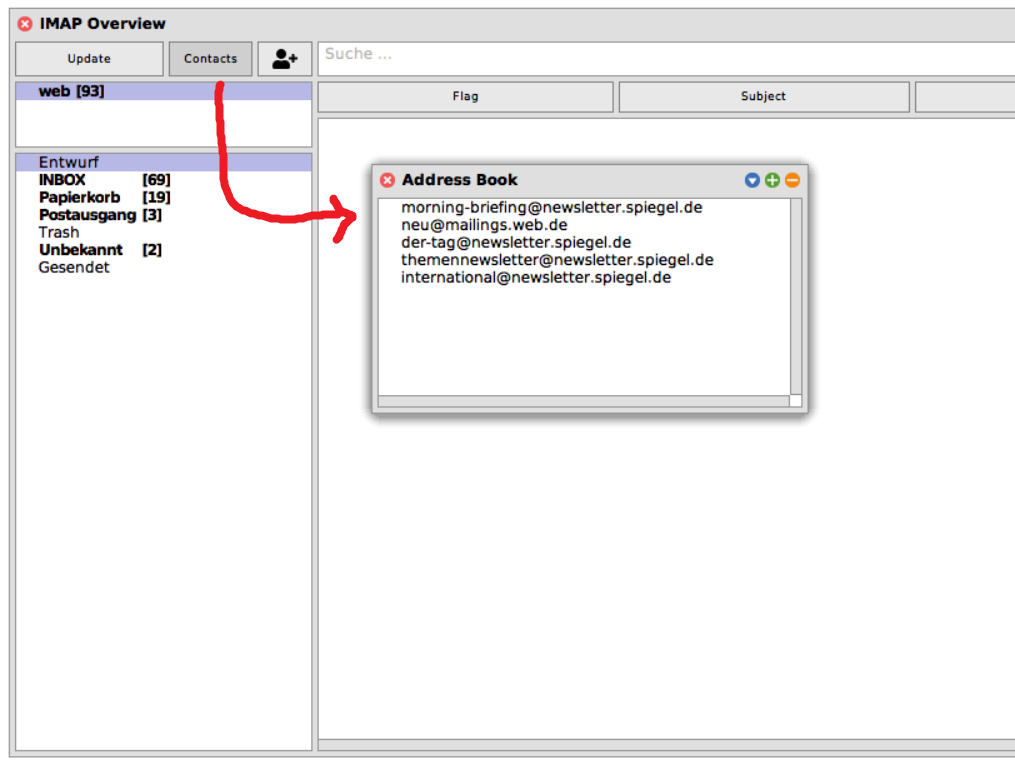
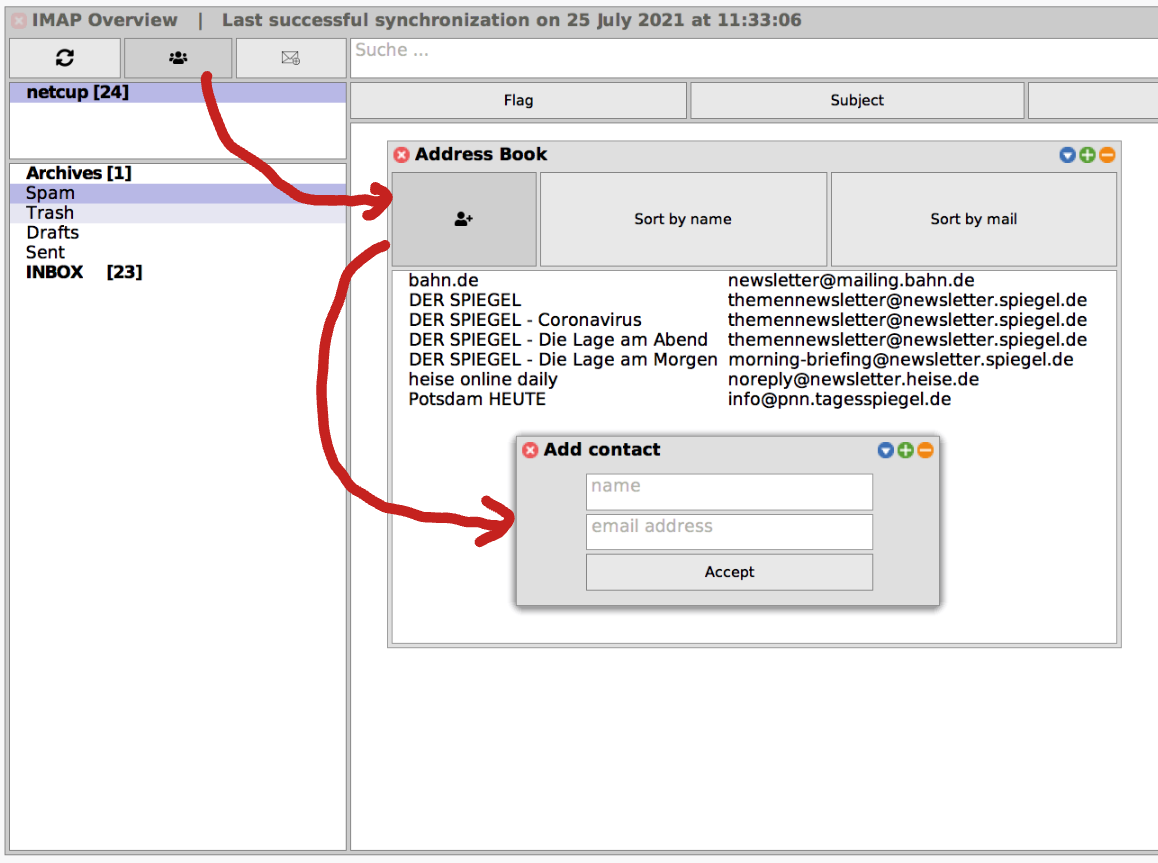
Update README to reflect changes in this iteration (#419)
main changes: updated screenshots and added explanation for new offline mode and address book features

Changed region(s): [[0.0, 0.0, 1.0, 0.9948]]

diff --git a/README.md b/README.md
@@ -1,6 +1,6 @@
 # IMAPClient [![Coverage Status](https://coveralls.io/repos/github/hpi-swa-teaching/IMAPClient/badge.svg?branch=develop)](https://coveralls.io/github/hpi-swa-teaching/IMAPClient?branch=develop)
  
-Welcome to our IMAP Client project. We are a team of 4th semester IT-Systems Engineering students and are happy to take over this project for the sixth iteration.
+Welcome to our IMAP Client project. We are a team of 4th semester IT-Systems Engineering students and are happy to take over this project for the seventh iteration.
 This project is part of a lecture in Software Engineering techniques and will be contributing to our final grade, so we are giving it our best ;)
 As this is a student project, it will mostly be worked on during the summer terms. Therefore our time with this project is limited to the end of july.
 
@@ -25,51 +25,54 @@ Metacello new
 You can open the tool with the command `ICFolderDialog new` or using a Menu Entry.
 
  ## Configuration
- You can customize the number of mails, which are fetched on the initial update process, and the number of mails which are loaded if you press the `Load older Mails` Button. Default are 100 and 10. Change `ICFolder>>numbersOfHeadersToFetch{AtLoaderOlderMail | AtTheBeginning}`
+ You can customize the number of mails, which are fetched on the initial update process, and the number of mails which are loaded if you press the `Load older Mails` Button. Default are 100 and 10. Change `ICFolder>>numbersOfHeadersToFetch{AtLoadOlderMail | AtTheBeginning}`
  This will not regard the e-mails that are already persisted on your disk, so if you have some e-mails in a Maildir directory, all of them will be read no matter what you defined here.
  
  ## Features
- - Manage different accounts
+ - _Manage different accounts_
   ![](screenshots/addAccount.png)
   You can add an account by clicking the `+` button. You will then be prompted to enter the account information needed to establish a connection with the server.
   
- - Fetch new mails from the server
+ - _Fetch new mails from the server_
   ![](screenshots/updating.png)
-  Mails are automatically fetched on login. If you wish to update and resynchronize with the server, click the update button.
+  Mails are automatically fetched on the first login. If you wish to update and resynchronize with the server afterwards, click the update button. The title bar of the tool will show you the time of the last successful synchronization to help you decide if you want to update.
   
- - Delete & move mails
+ - _Delete & move mails_
  ![](screenshots/move.png)
  A right click on any mail will show you your options. Deleting a mail automatically moves it to the trash folder. If you want to revert a deletion, you can simply navigate to the trash folder and move the email back to another folder.
  When you want to permanently delete emails, right click on the trash folder and choose expunge. This will dump your trash folder permanently.
  
- - Flag and read emails
+ - _Flag and read emails_
   A right click on any mail will show you your options. You can flag an email for later use or mark it as seen if you do not want to be disturbed by it beeing highlighted anymore. Also you can mark already seen mails as unseen again.
   ![](screenshots/flag.png)
   ![](screenshots/unflag.png)
     
- - See unseen mails immediately. 
+ - _See unseen mails immediately._ 
  All unseen mails will be highlighted and the number of unseen mails per folder can be seen next to the folder name.
  
- - Search Mails
+ - _Search Mails_
   ![](screenshots/search.png)
-  You can enter a search string into the search bar at the top. Right next to the search bar you can see, how many search results you got for the current search.
+  You can enter a search string into the search bar at the top. Right next to the search bar you can see how many search results you got for the current search.
  
- - Parse different encodings
+ - _Parse different encodings_
  
- - Reflect server changes back to Client. 
+ - _Reflect server changes back to Client._
  If you're accessing your mails for a different device, and deleting/moving them, just press the update button in the Client, and every change should be correctly updated.
  
- - Sort mails by different categories. 
-   ![](screenshots/sort.png)
- By default all sortings are ascending. Double clicking the button will switch do descending order.
+ - _Offline mode_
+  All above features are also available while you are offline. Specifically, mails can be read, flagged and moved to other folders after they were downloaded on the first login. As soon as you are online again, you may resynchronize your account with the server by clicking on the update button and filling in your password.
  
- - Addressbook. 
+ - _Sort mails by different categories._ 
+   ![](screenshots/sort.png)
+ By default all sortings are ascending. Double clicking the button will switch to descending order.
+ 
+ - _Addressbook._ 
    ![](screenshots/addressbook.png)
- You can open the addressbook by clicking the button with the person icon. The adressbook holds all sender addresses of mails from any of the currently logged in accounts.
+ You can open the addressbook by clicking the button with the persons icon. The adressbook holds all sender names and addresses of mails from any of the currently logged in accounts. You can also add your own contacts by clicking on the respective button. Finally, it is possible to sort contacts in ascending or descending order by both sender name and address.
 
 ## Usage
 Start the IMAP Client with `ICFolderDialog new`. Add new Accounts with the `+` Button. We tested the functionality with web.de Accounts. But other accounts should work fine.
-The hpi owa accounts are known to be relatively large, as calendar and contact meta information is also sent to our client as folder objects. Therefore it might not entirely load in the requested time of 5 seconds.
+The HPI OWA accounts are known to be relatively large, as calendar and contact meta information is also sent to our client as folder objects. Therefore it might not entirely load in the requested time of 5 seconds.
 
 For HPI accounts use the following login info:
 ``` 
@@ -90,18 +93,18 @@ Use SSL: True
 
 ## Security
 Your password isn't stored on disk, but will be visible to your Squeak environment. It is immediately deleted after login, so you will not be able to retrieve it afterwards, but be aware that we are no security experts and you might not want to test this with a high severity account.
-After closing the IMAP-Client and reopening it your are welcomed by a password prompt to re-enter your credentials.
+After closing the IMAP-Client and reopening it, you are welcomed by a password prompt when you click the update button for the first time.
 
 ## Known Problems
 
 As this project has lived through many iterations, there are a couple of known issues that we could not resolve during the few months we spend with this project. 
-If you encounter any problem while using our IMAP client, have a look at the Issues of this GitHub Project. Most of them are probably already known to us.
+If you encounter any problem while using our IMAP client, have a look at the [Issues](https://github.com/hpi-swa-teaching/IMAPClient/issues) of this GitHub Project. Most of them are probably already known to us.
 In case your problem has not been reported yet, feel free to post a new issue and describe what you did to get the problem, what the unexpected behaviour was and what behaviour you would have expected. 
 Thank you in advance for contributing to making this project better by reporting any problems that we are not yet aware of!
 
 ## Documentation
 
-Hava a look at the GitHub Project Wiki to find more insights into the project.
+Have a look at the [GitHub Project Wiki](https://github.com/hpi-swa-teaching/IMAPClient/wiki) to find more insights into the project.
 
 ## History
 2016: Johannes Schneider, Maximilian Söchting, Julian Weise, Alexander Riese, Alexander Loeser
